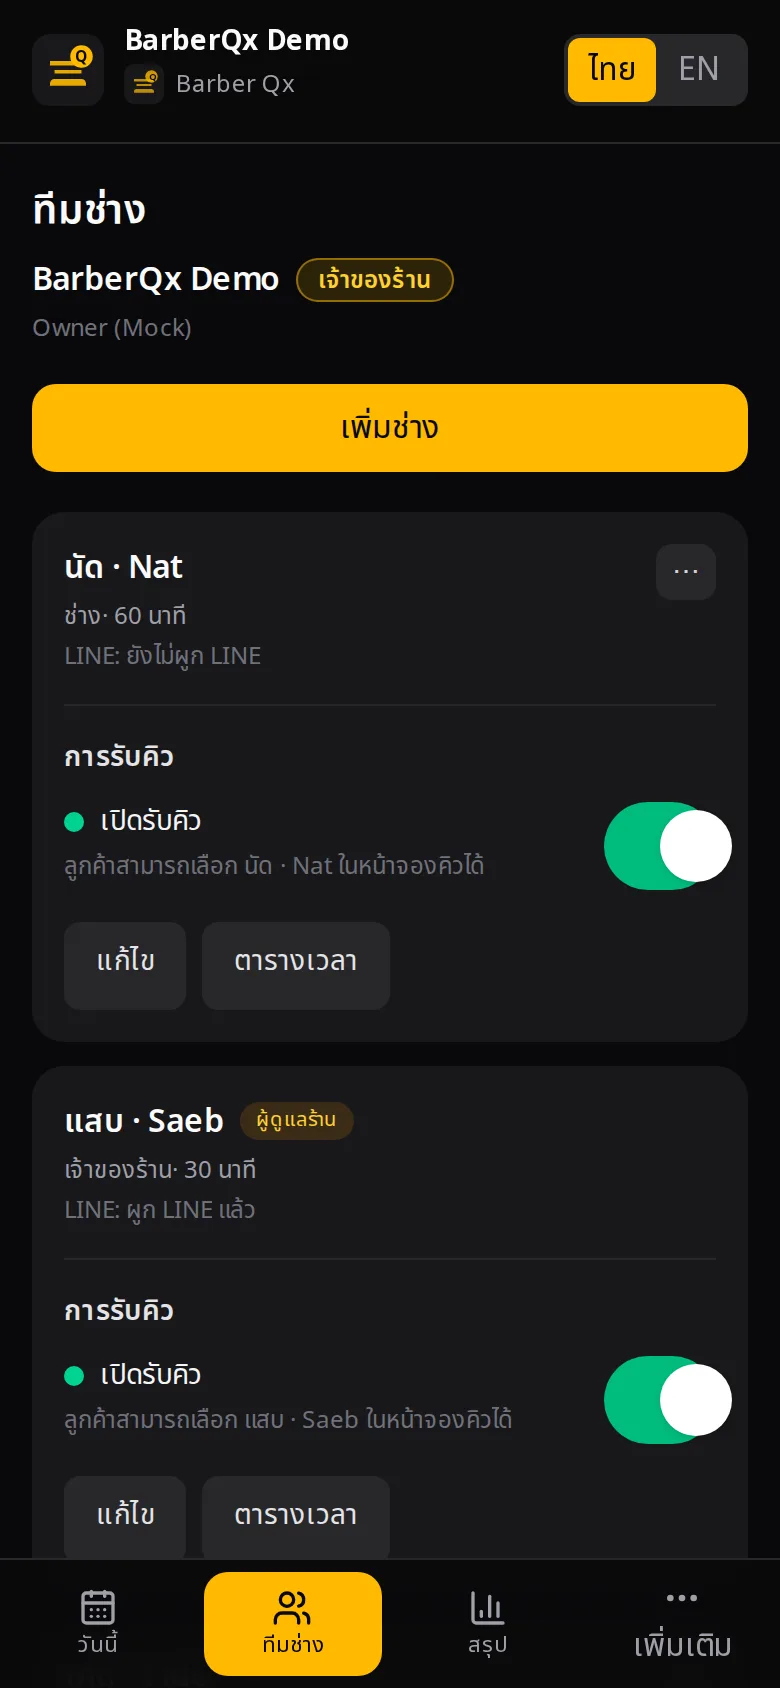
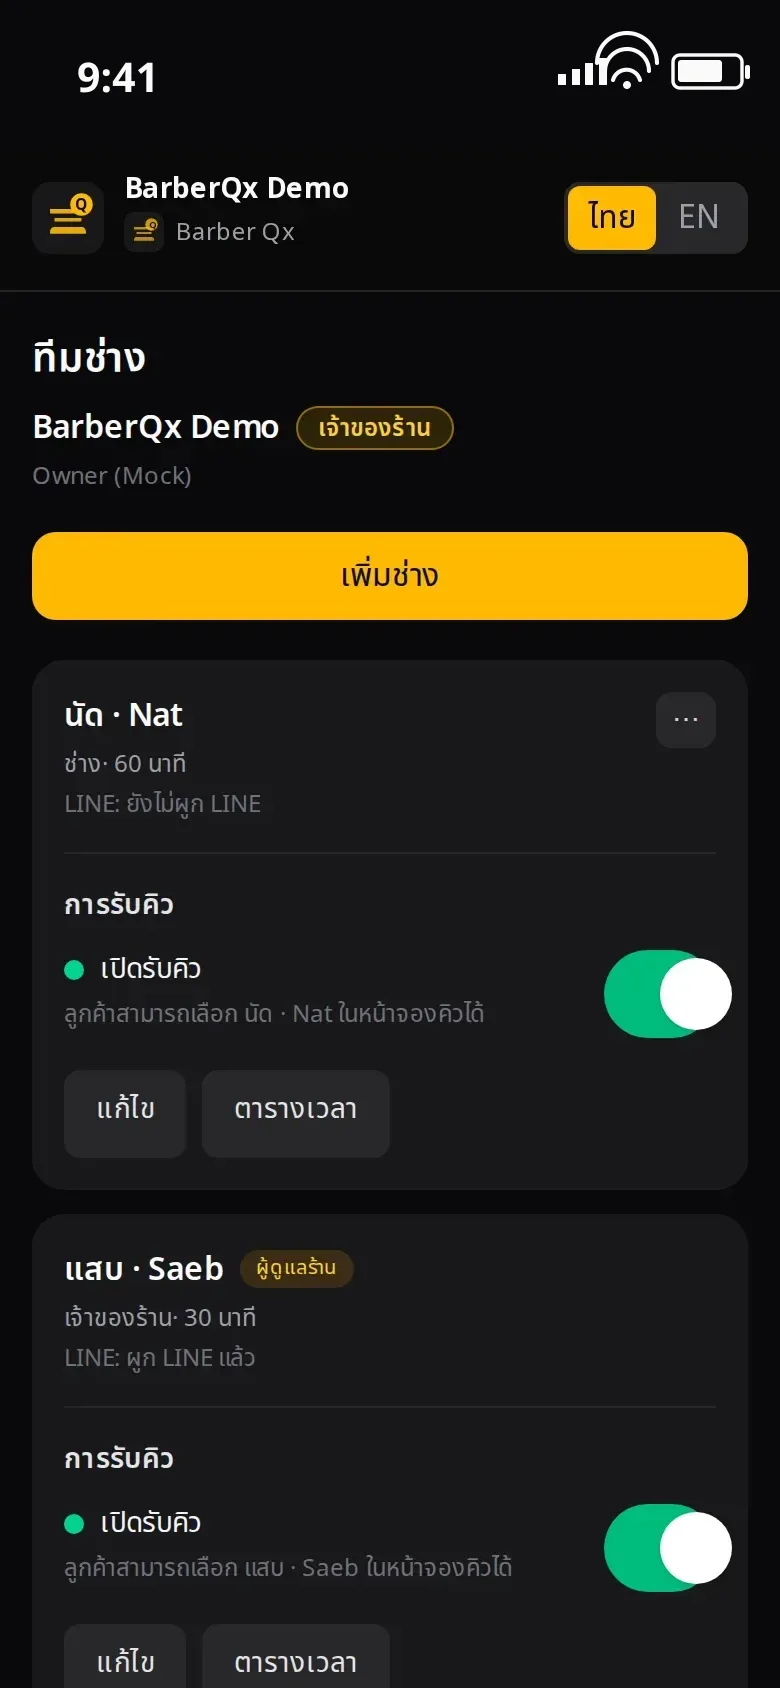
Add iOS status-bar safe area so screens clear the Dynamic Island.
Bake ~74pt status bar into marketing screens, size hand-composite safe area
from detected island bounds, and fix a flaky staff-booking stats slot collision.

diff --git a/src/components/marketing/mockups/PhoneFrame.tsx b/src/components/marketing/mockups/PhoneFrame.tsx
@@ -58,7 +58,7 @@ export function PhoneFrame({
           className="relative h-full w-full overflow-hidden bg-zinc-950"
           style={{ borderRadius: "12.8% / 5.9%" }}
         >
-          {/* Dynamic Island */}
+          {/* Dynamic Island — sits above status-bar safe area baked into screenshots */}
           <div
             className="pointer-events-none absolute left-1/2 top-[1.6%] z-20 -translate-x-1/2 bg-black"
             style={{
@@ -74,6 +74,7 @@ export function PhoneFrame({
             />
           </div>
 
+          {/* Screens already include ~74pt status-bar safe area above app chrome */}
           <div className="absolute inset-0 overflow-hidden">{children}</div>
         </div>
       </div>

diff --git a/src/lib/booking/staff-booking.test.ts b/src/lib/booking/staff-booking.test.ts
@@ -287,9 +287,12 @@ describe("staff booking + source (P3)", () => {
       customerRef: "line-stats-1",
       customerLineId: "line-stats-1",
     });
+    // Pick a later free slot so walk-in never collides with the LINE booking above
+    const walkInSlot = await firstFutureSlot(barber.id);
+    assert.ok(walkInSlot);
     await createStaffBooking(shop.id, {
       barberId: barber.id,
-      startTime: new Date().toISOString(),
+      startTime: walkInSlot!.startTime,
       source: "walk_in",
     });
     const staff: StaffAuth = {

diff --git a/src/lib/marketing/screens.ts b/src/lib/marketing/screens.ts
@@ -12,8 +12,9 @@ export type MarketingScreenKey = keyof typeof marketingScreens;
 
 /**
  * Hand-holding-phone hero — green screen chroma-keyed + screenshot pre-composited.
+ * Screens include an iOS status-bar safe area (~74pt) so shop chrome clears the island.
  * Source green plate: /marketing/hand-phone.webp
- * Rebuild: `node scripts/composite-hand-phone.mjs`
+ * Rebuild: `npm run prepare:marketing-visuals`
  */
 export const handPhoneHero = {
   /** Original green-screen plate (owner asset). */

diff --git a/src/components/marketing/mockups/PhoneScreen.tsx b/src/components/marketing/mockups/PhoneScreen.tsx
@@ -15,6 +15,11 @@ type Props = {
   priority?: boolean;
 };
 
+/**
+ * Real app screenshot inside PhoneFrame.
+ * Screens are pre-padded with an iOS status-bar safe area (~54pt) so shop
+ * chrome clears the Dynamic Island.
+ */
 export function PhoneScreen({
   screen,
   alt = "",
